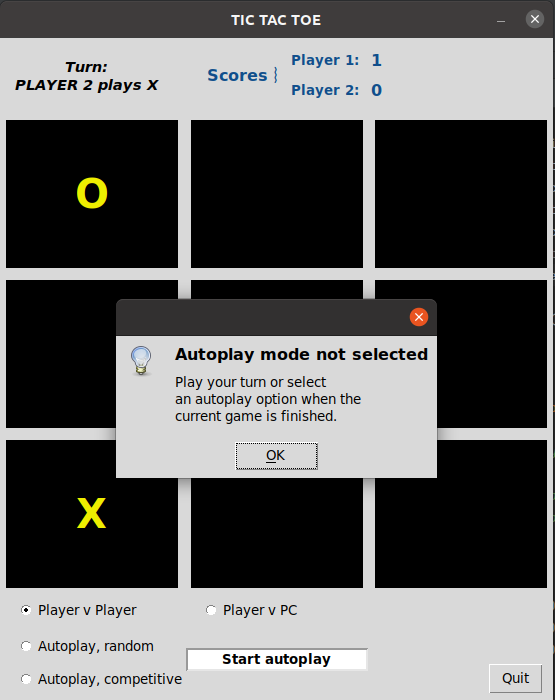
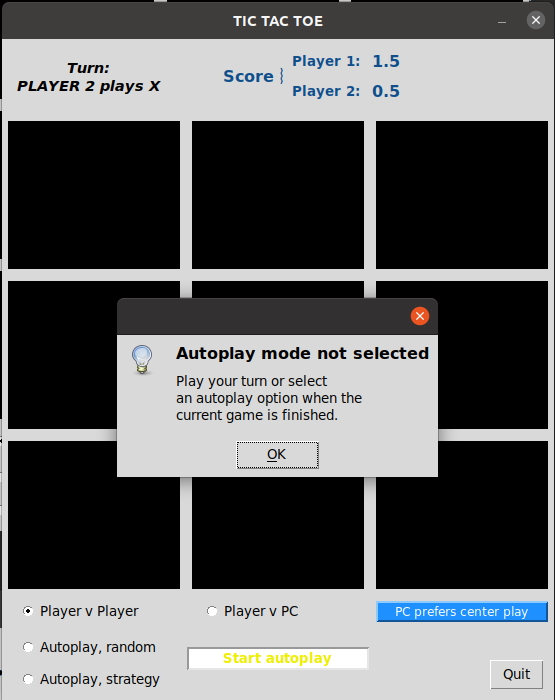
update README.md

diff --git a/README.md b/README.md
@@ -35,6 +35,8 @@ Player 2 tied the second game; a half point was awarded to each player:
 
 In Autoplay mode (computer vs computer), 1000 turns are played. Scores are updated in realtime through the series of about 120 to 140 games.
 
+In Autoplay or Player v PC game modes, there is an option to have computer play its first turn randomly or play the center square if available. The PC preference can be changed on-the-fly.
+
 Popup windows announce user selection errors:
 
 ![mode_error](images/autoplay_mode_err.png)
